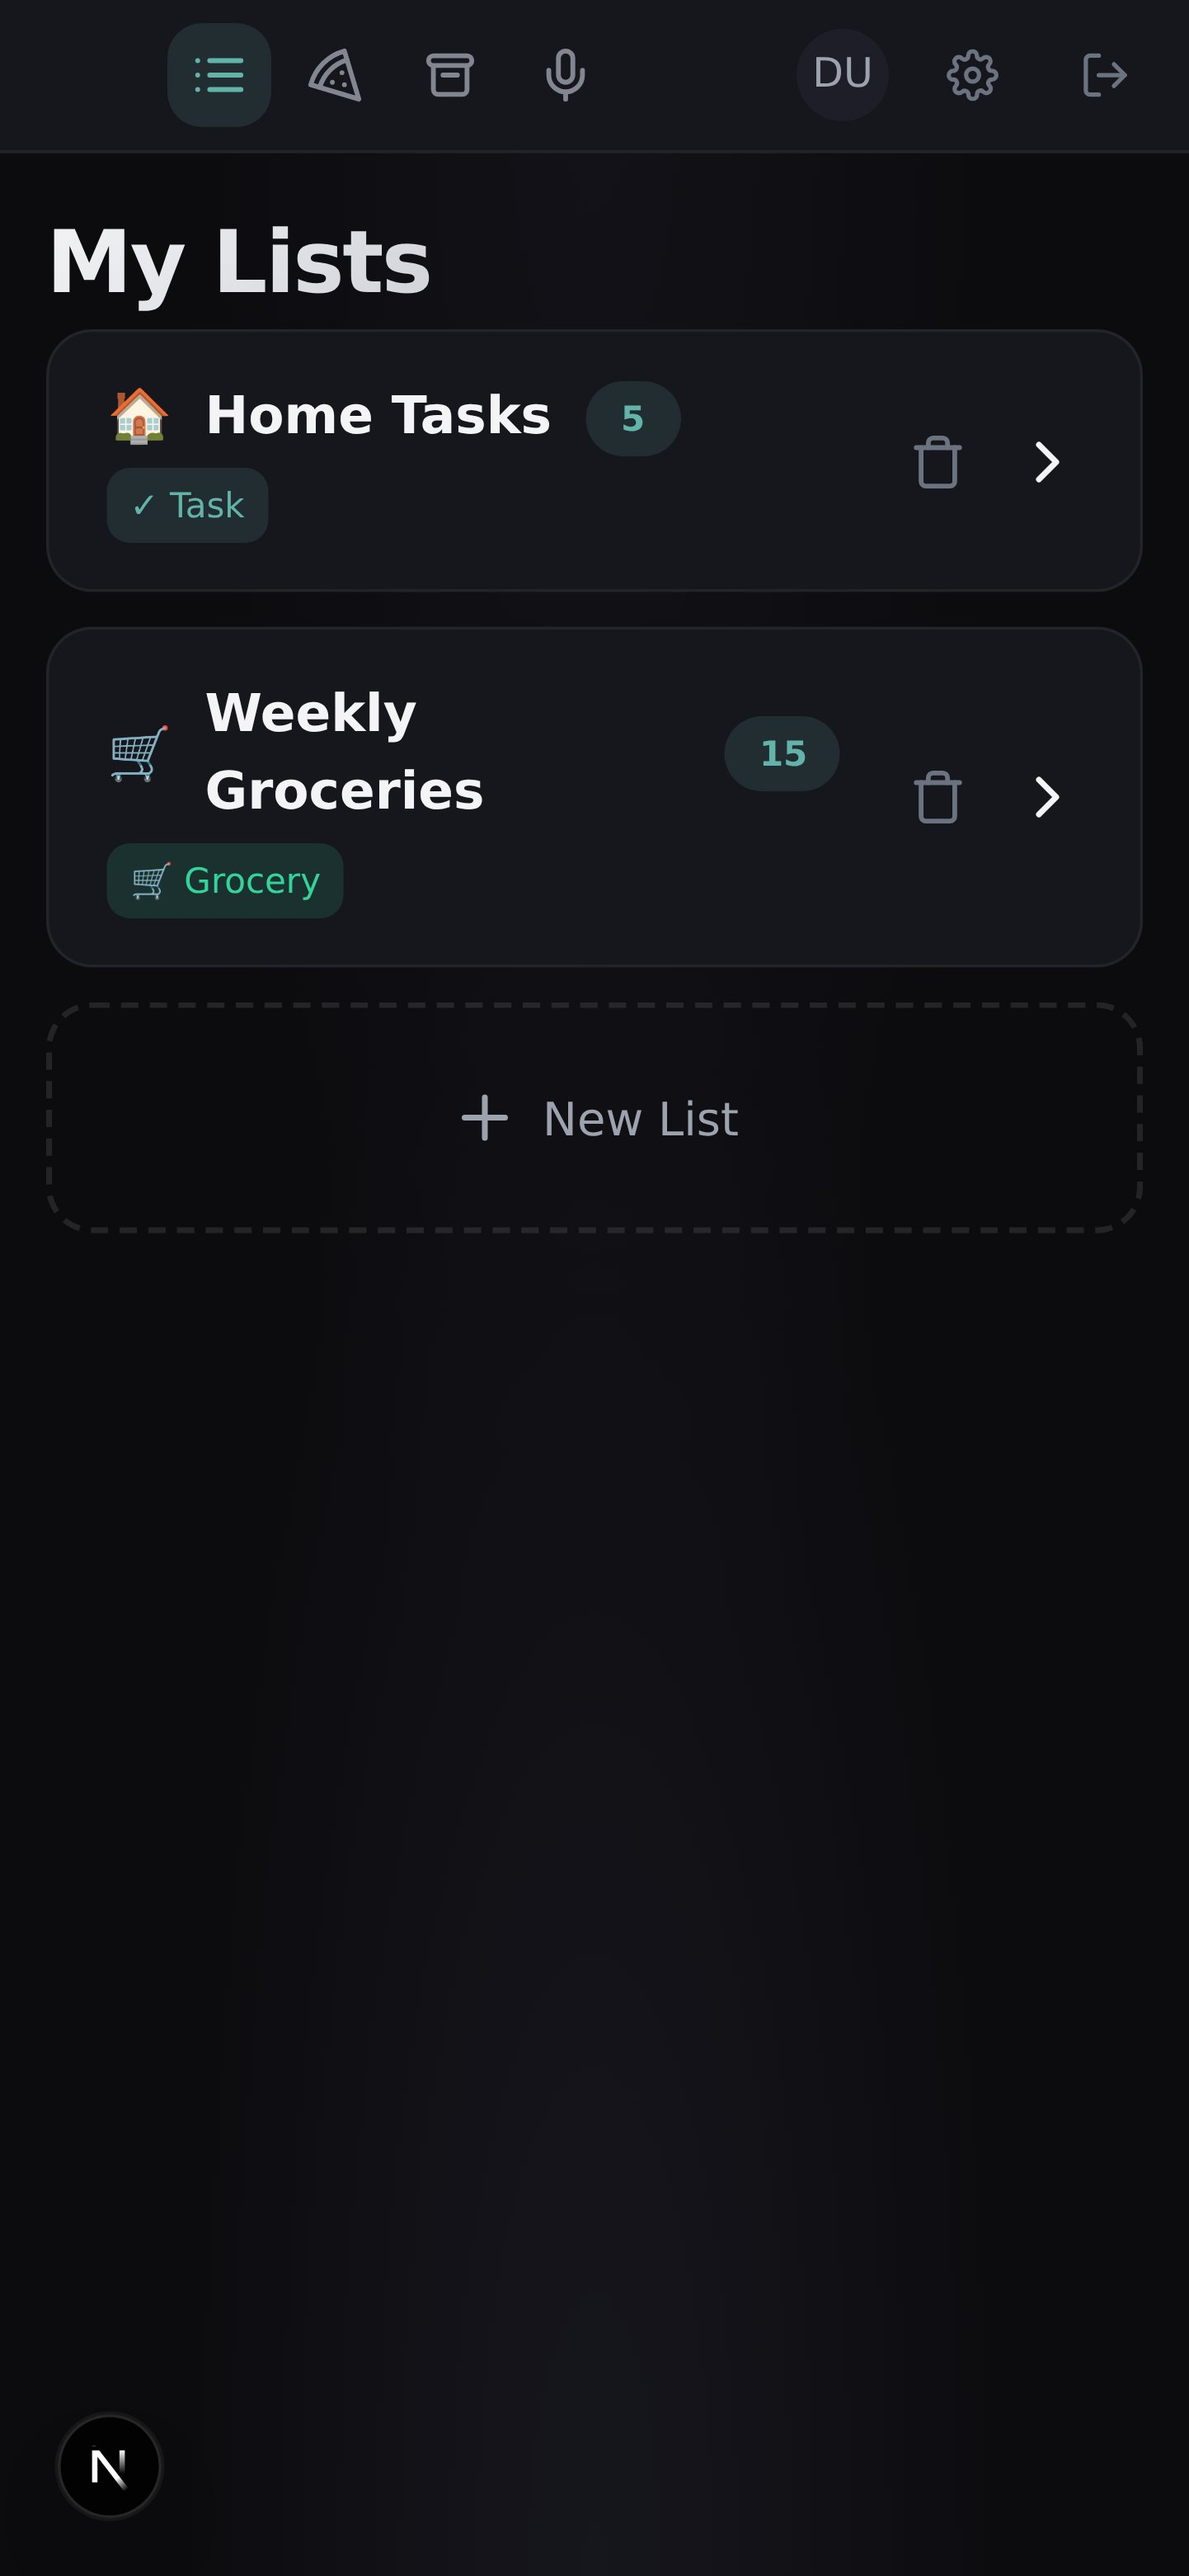
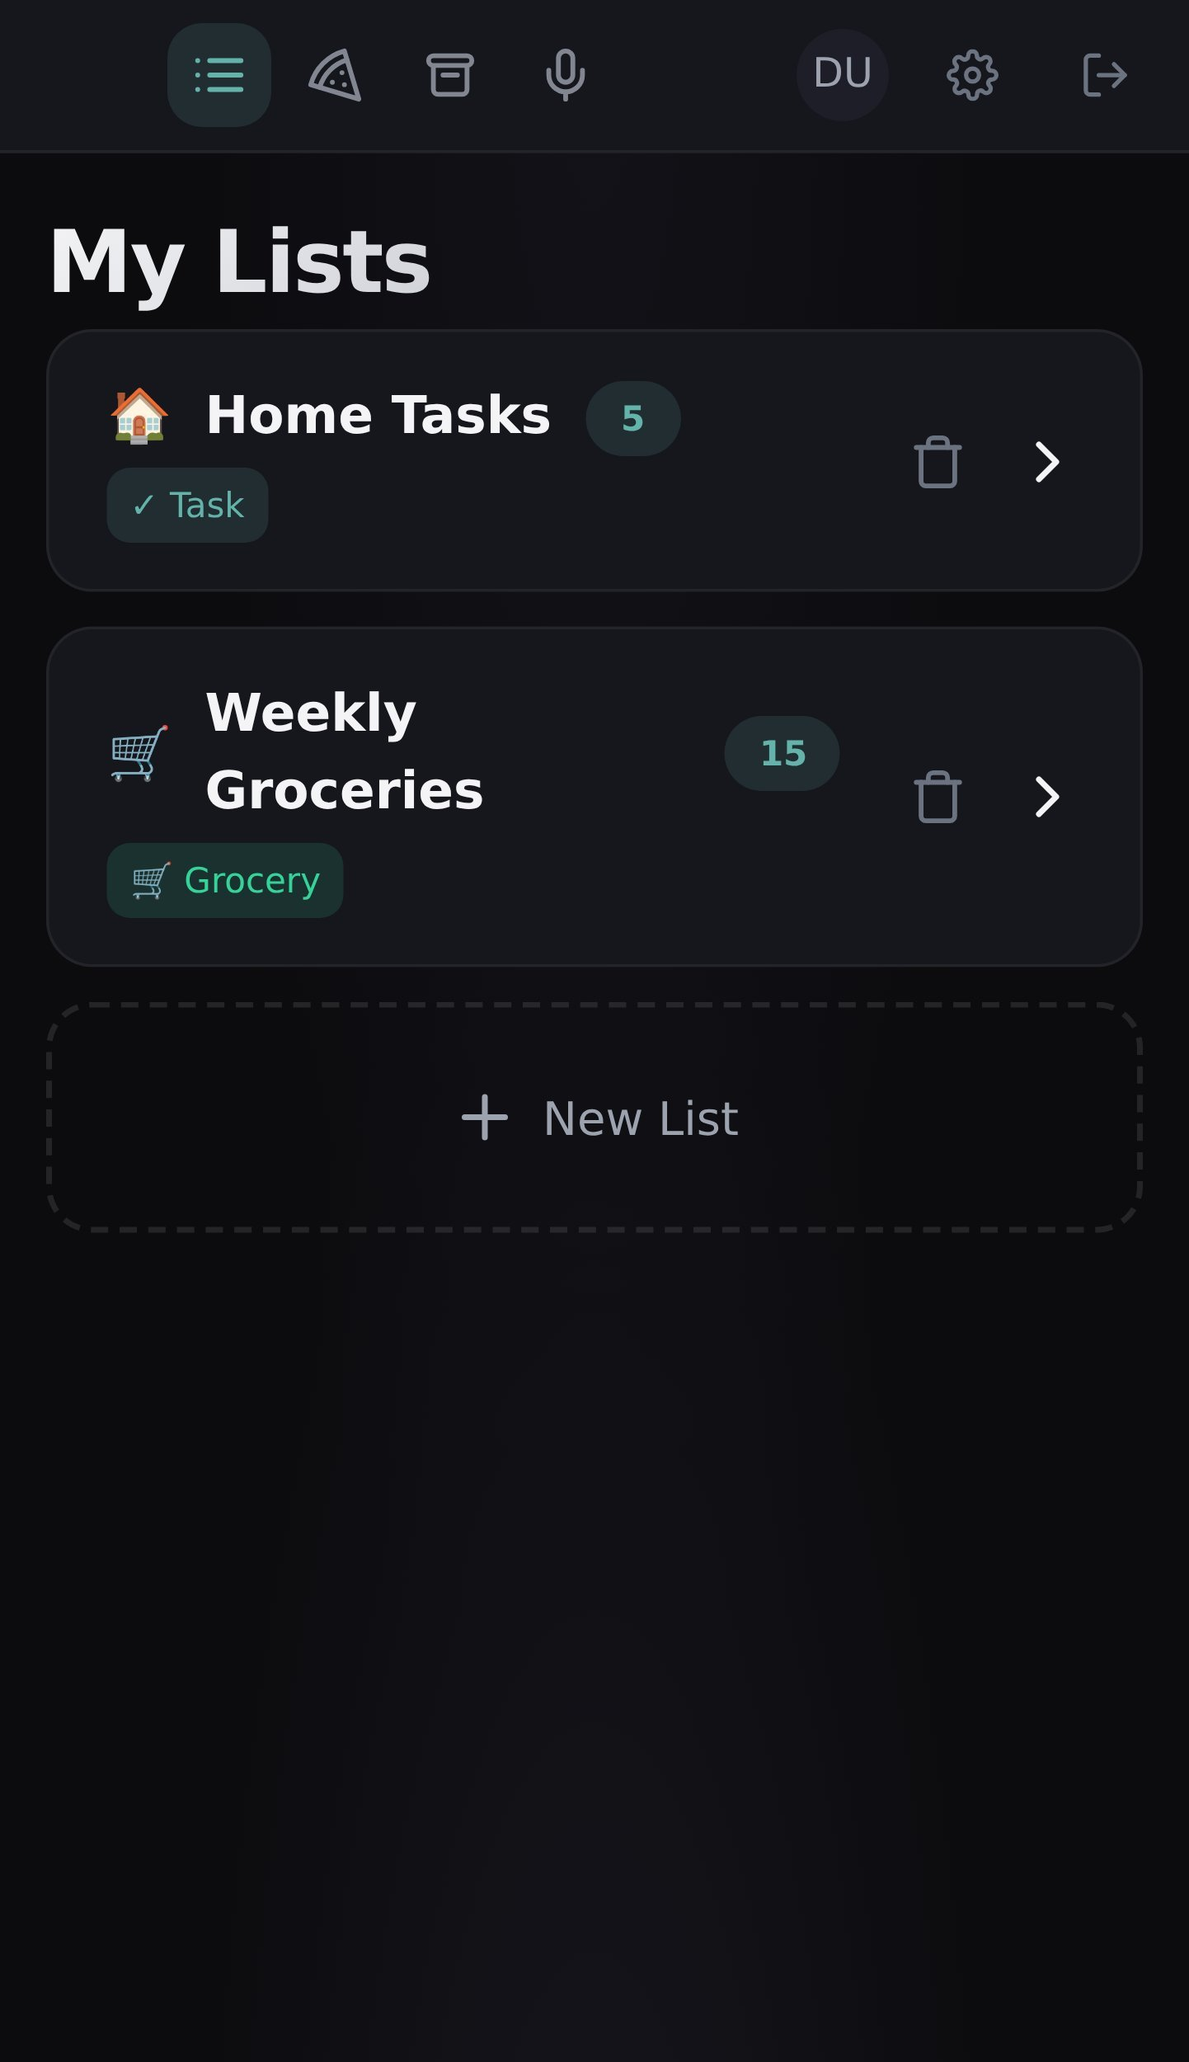
Improve README screenshot layout with consistent heights and labels
- Crop all screenshots to consistent 2500px height (phone viewport)
- Use markdown table layout with labeled columns
- Reduces confusion from varying screenshot lengths

🤖 Generated with [Claude Code](https://claude.com/claude-code)

diff --git a/README.md b/README.md
@@ -4,18 +4,15 @@ Self-hosted shopping and meal planning app with voice input, recipe management, 
 
 ## Screenshots
 
-<p align="center">
-  <img src="docs/images/lists-mobile.jpg" alt="Lists" width="220" />
-  <img src="docs/images/grocery-list-mobile.jpg" alt="Grocery List" width="220" />
-  <img src="docs/images/task-list-mobile.jpg" alt="Task List" width="220" />
-</p>
-<p align="center">
-  <img src="docs/images/recipes-mobile.jpg" alt="Recipes" width="220" />
-  <img src="docs/images/recipe-detail-mobile.jpg" alt="Recipe Detail" width="220" />
-  <img src="docs/images/pantry-mobile.jpg" alt="Pantry" width="220" />
-</p>
+| Lists | Grocery List | Task List |
+|:---:|:---:|:---:|
+| ![Lists](docs/images/lists-mobile.jpg) | ![Grocery List](docs/images/grocery-list-mobile.jpg) | ![Task List](docs/images/task-list-mobile.jpg) |
 
-*Dark theme with teal accents, mobile-first PWA design*
+| Recipes | Recipe Detail | Pantry |
+|:---:|:---:|:---:|
+| ![Recipes](docs/images/recipes-mobile.jpg) | ![Recipe Detail](docs/images/recipe-detail-mobile.jpg) | ![Pantry](docs/images/pantry-mobile.jpg) |
+
+*Dark theme, mobile-first PWA*
 
 ## Features
 
